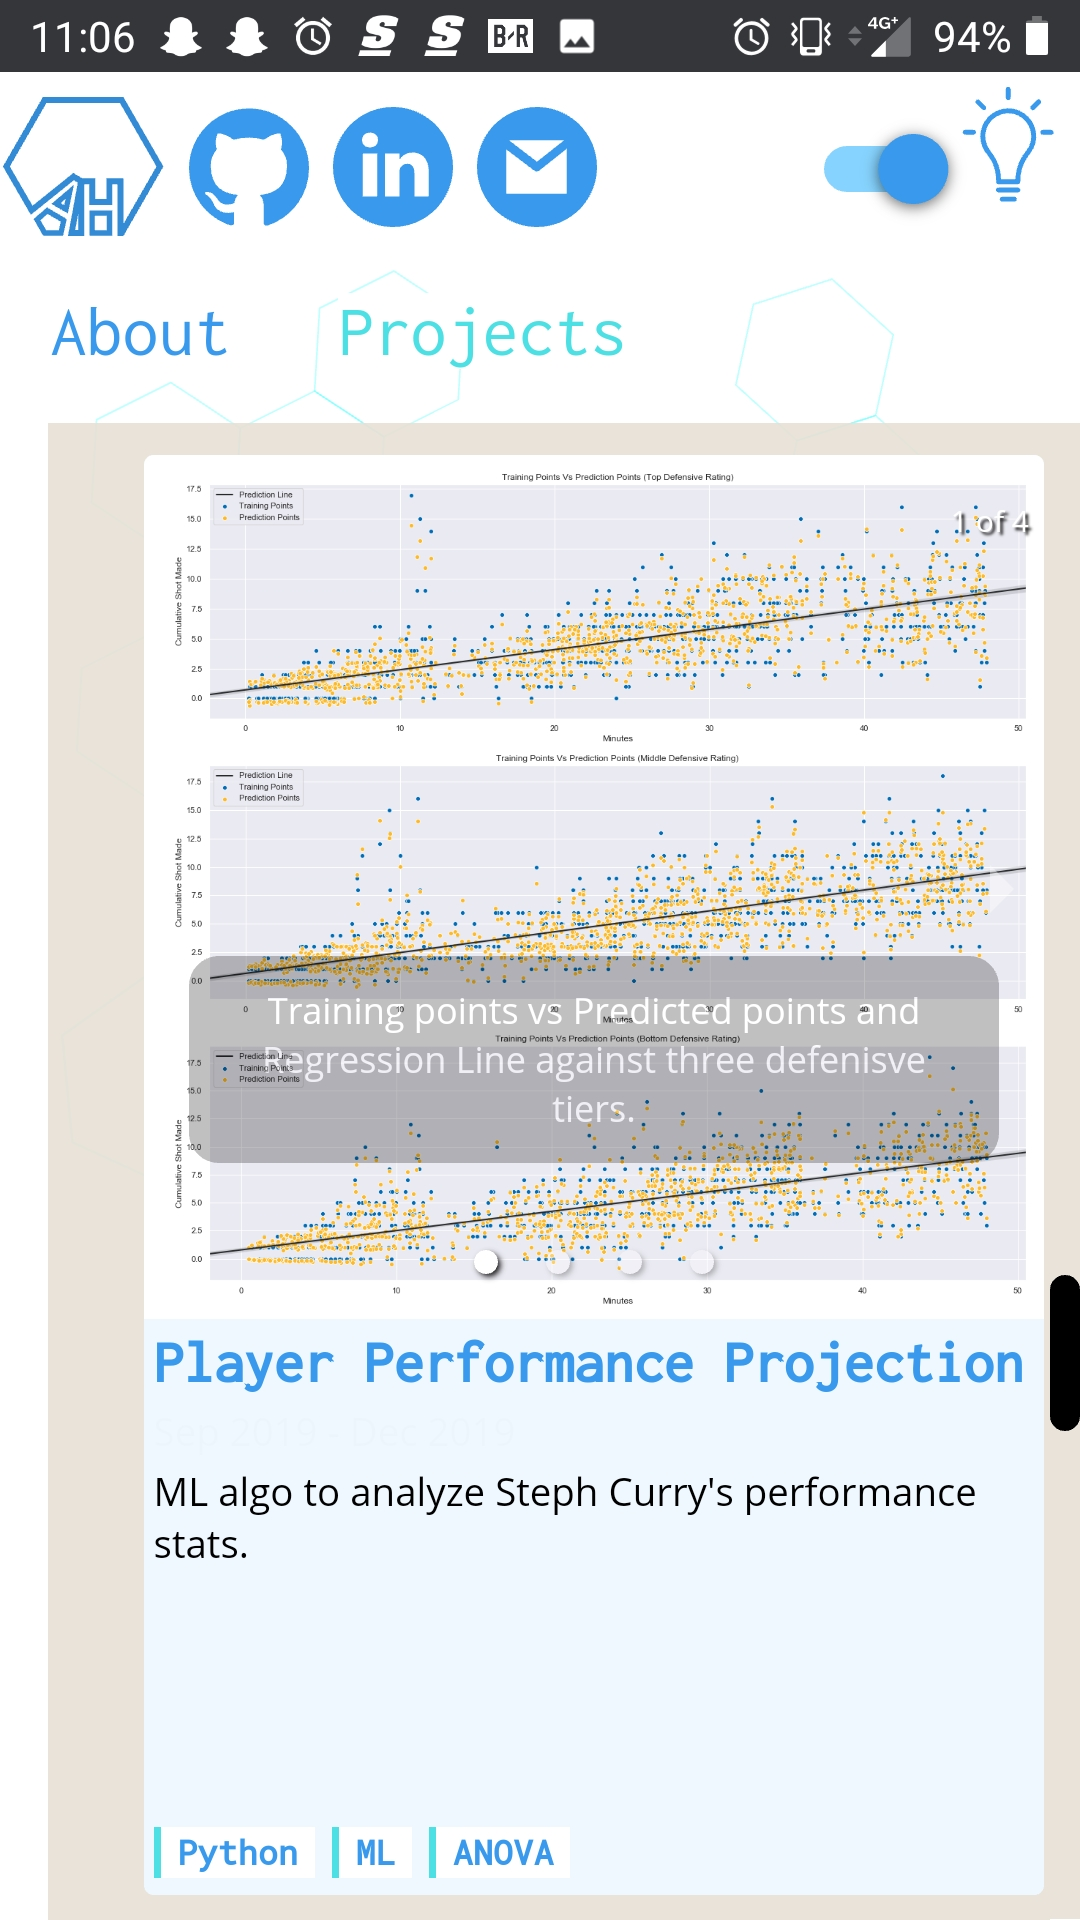
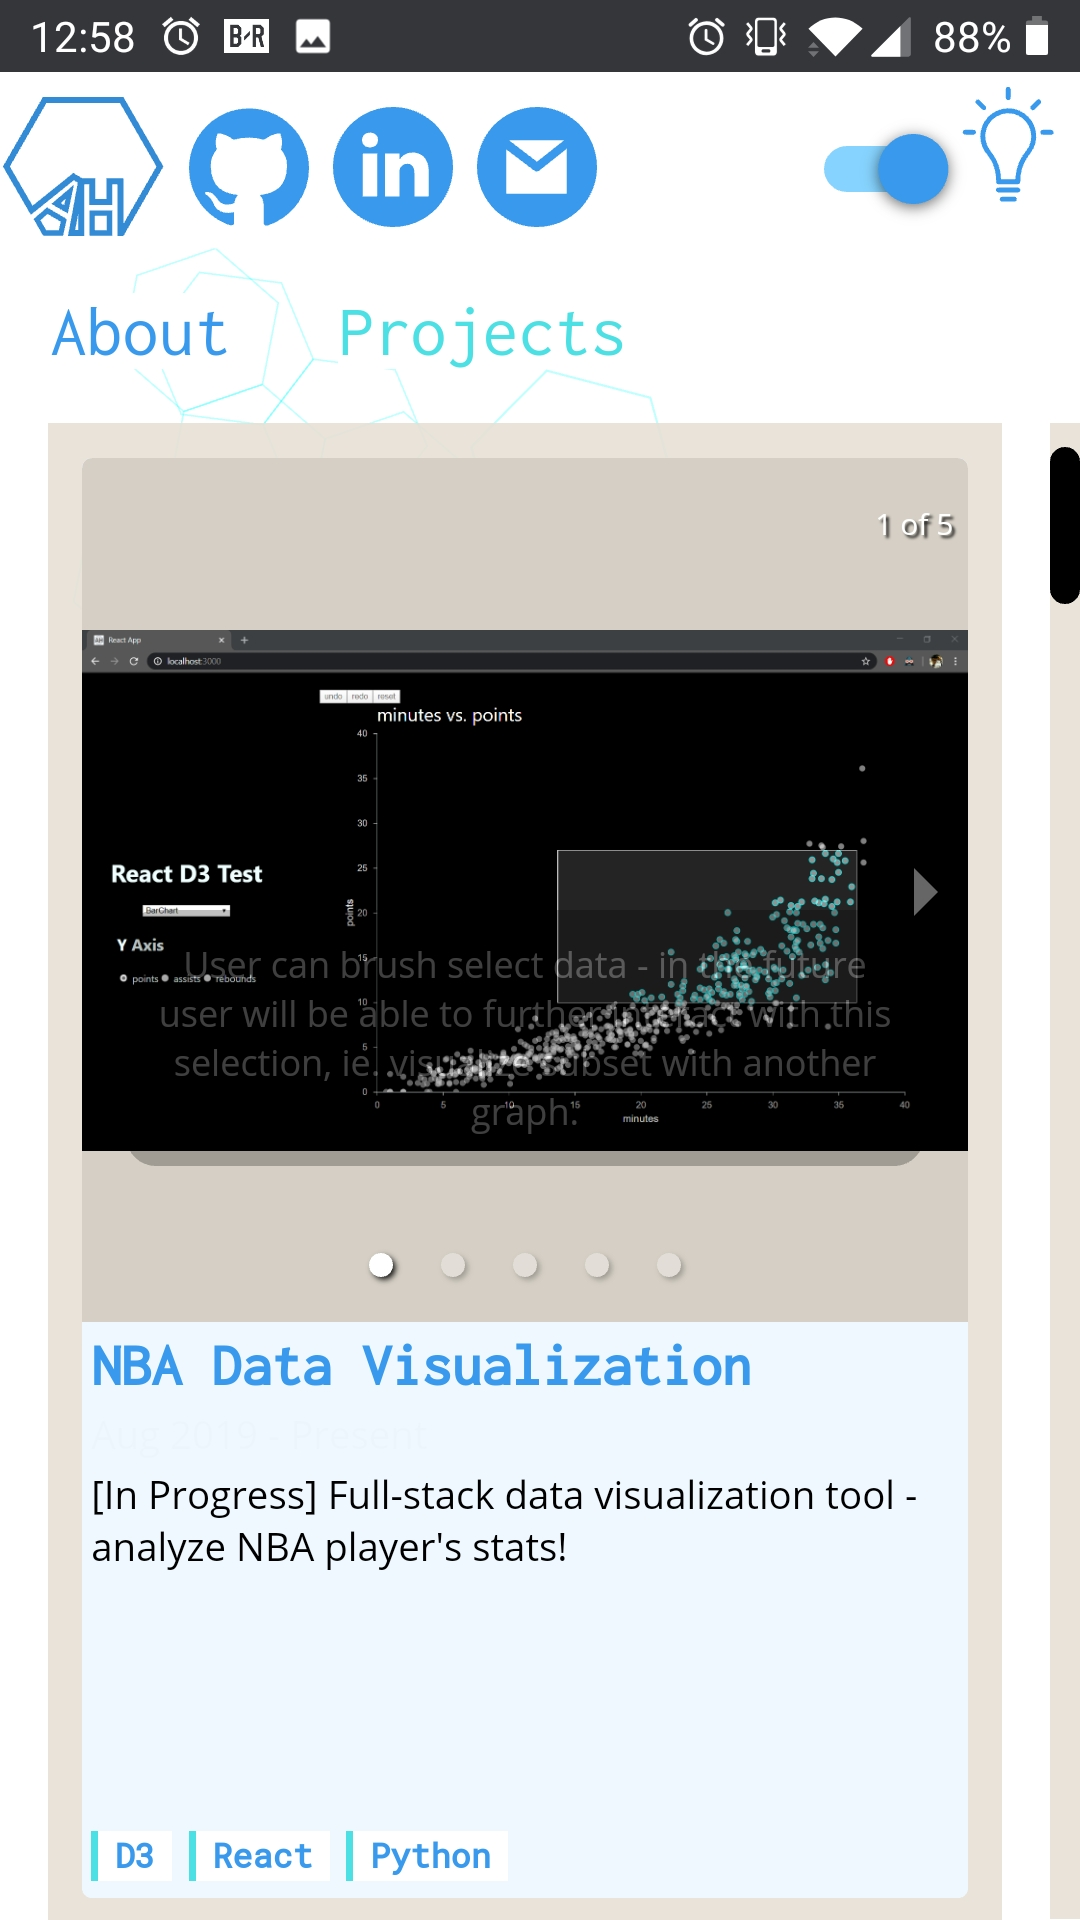
Mobile view bug fix and updated images for website project
-Cards now fully fit in viewport of mobile view
-Updated and added extra image to reflect those changes in the carousel of website project

diff --git a/src/components/ProjectsList.js b/src/components/ProjectsList.js
@@ -103,20 +103,25 @@ export const projects = {
                     "alt" : "Website: Mobile - About Page",
                     "description" : "Different hierarchy and layout for mobile view.",
                 },
-                2 : {
+                2: {
+                    "src" : "website/mobile-projects.jpg",
+                    "alt" : "Website: Mobile - Projects Page",
+                    "description" : "Vertical card layout and swipable carousel to view images.",
+                },
+                3 : {
                     "src" : "website/mobile-light.jpg",
                     "alt" : "Website: Mobile - Light Theme",
                     "description" : "Light themed version.",
                 },
-                3 : {
+                4 : {
                     "src" : "website/mobile-light-about.jpg",
                     "alt" : "Website: Mobile - Light Theme About Page",
                     "description" : "Brighter colour palette for outdoor environments.",
                 },
-                4 : {
+                5 : {
                     "src" : "website/mobile-light-projects.jpg",
                     "alt" : "Website: Mobile - Light Theme Projects Page",
-                    "description" : "Vertical card layout.",
+                    "description" : "Light themed version of the projects page.",
                 },
             },
         },

diff --git a/src/css/App.css b/src/css/App.css
@@ -86,7 +86,7 @@
   flex-direction: column;
   padding: 1em;
   width: 100%;
-  min-width: fit-content;
+  /* min-width: fit-content; */
   border-radius: 0.8em;
 }
 
@@ -382,11 +382,15 @@ a span{
     margin-top: 0.25em;
     margin-right: 0.25em;
   }
+  .Page{
+    padding: 0em 0.5em;
+  }
 
   .Card{
     flex-direction: column;
-    width: 300px;
+    width: 100%;
     height: 480px;
+    margin: 1em 0.2em;
   }
   .Card-carousel{
     flex-basis: 60%;
@@ -400,7 +404,7 @@ a span{
     padding: 0 0.2em 0 0.2em;
   }
   .Carousel-placeholder{
-    width: 300px;
+    width: 100%;
     border-radius: 0.2em 0.2em 0 0;
   }
   .Carousel-container, .Carousel-container-item { /* used in Carousel.js */
